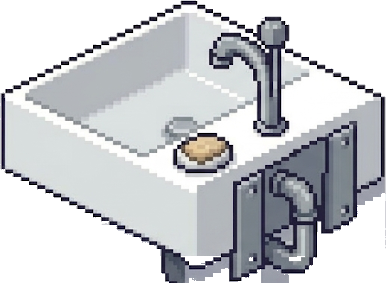
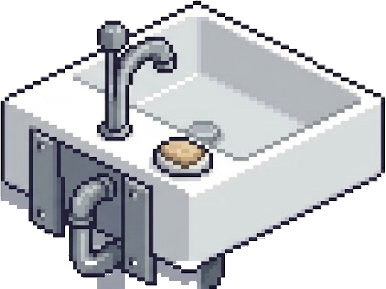
앞쪽 벽 세면대·낮은 세면대 그림 방향 교체
아래쪽 벽과 오른쪽 벽에 쓰던 두 그림을 서로 바꿈.

Claude-Session: https://claude.ai/code/session_01MbA6voPuP9hfFURsXTDC13

diff --git a/index.html b/index.html
@@ -7,7 +7,7 @@
 <link rel="preconnect" href="https://fonts.googleapis.com">
 <link rel="preconnect" href="https://fonts.gstatic.com" crossorigin>
 <link rel="stylesheet" href="https://fonts.googleapis.com/css2?family=Do+Hyeon&family=Gothic+A1:wght@400;600;800&display=swap">
-<link rel="stylesheet" href="style.css?v=1792648892">
+<link rel="stylesheet" href="style.css?v=1793591012">
 </head>
 <body>
 <!--APP-START-->
@@ -76,8 +76,8 @@
 </div>
 <canvas id="fx" aria-hidden="true"></canvas>
 <!--APP-END-->
-<script src="js/config.js?v=1792648892"></script>
-<script src="js/logic.js?v=1792648892"></script>
-<script src="js/game.js?v=1792648892"></script>
+<script src="js/config.js?v=1793591012"></script>
+<script src="js/logic.js?v=1793591012"></script>
+<script src="js/game.js?v=1793591012"></script>
 </body>
 </html>
